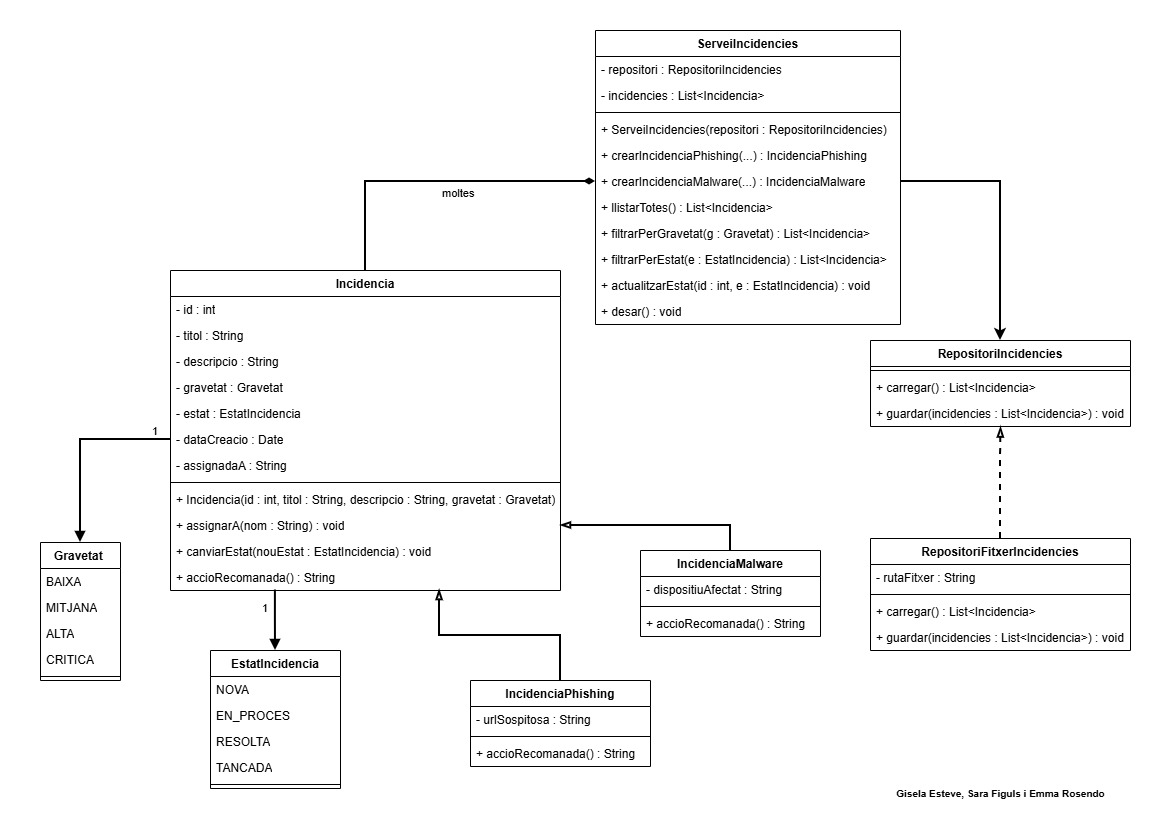
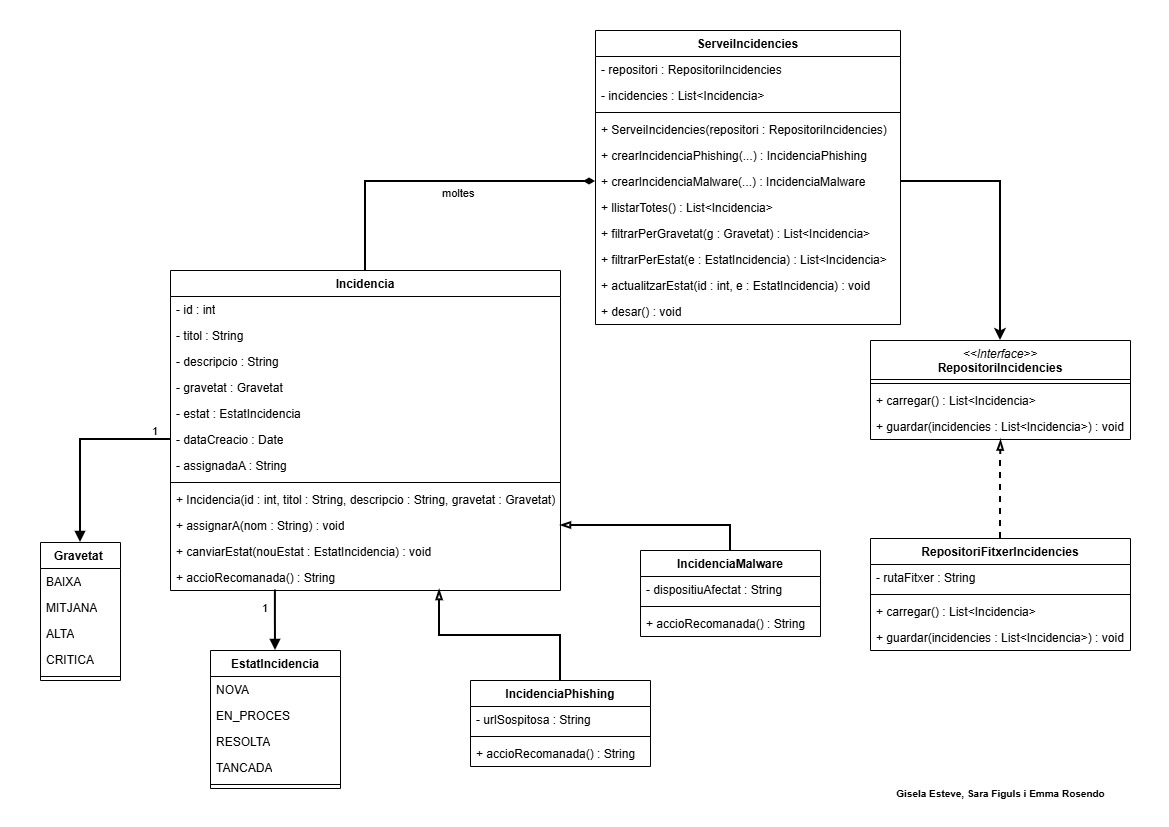
RepositoriIncidencies
Classe RepositoriIncidencies feta i nova imatge del diagrama de classes, ja que he vist que hi havia un altre error.

Changed region(s): [[0.7391, 0.4232, 0.9547, 0.5441]]

diff --git a/projecte/src/cat/gestorincidencias/model/repositori/RepositoriIncidencies.java b/projecte/src/cat/gestorincidencias/model/repositori/RepositoriIncidencies.java
@@ -1,5 +1,10 @@
 package cat.gestorincidencias.model.repositori;
 
-public class RepositoriIncidencies {
-    
+import java.util.List;
+import cat.gestorincidencias.model.incidencies.Incidencia;
+
+public interface RepositoriIncidencies {
+    List<Incidencia> carregar();
+
+    public void guardar(List<Incidencia> incidencies);
 }
